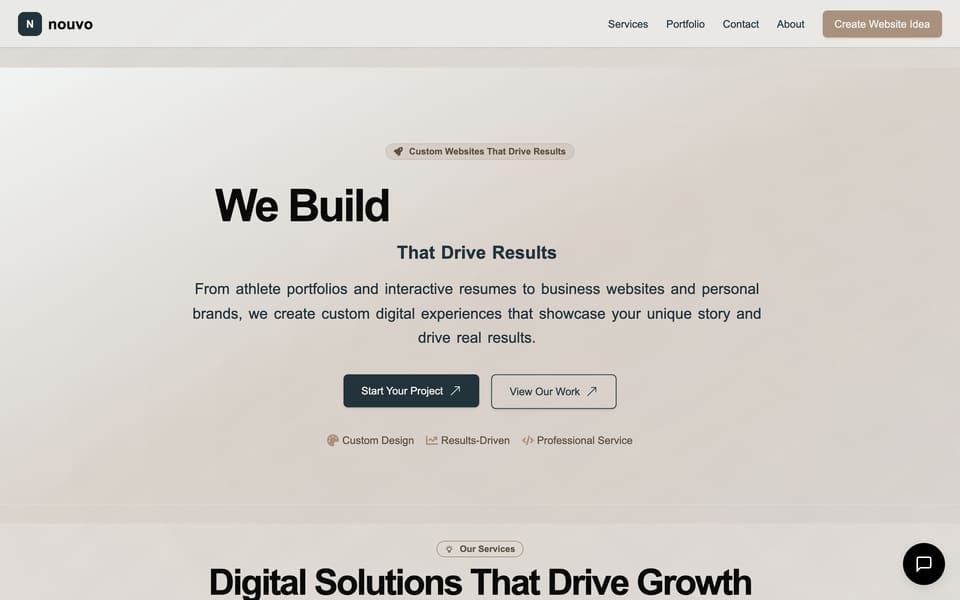
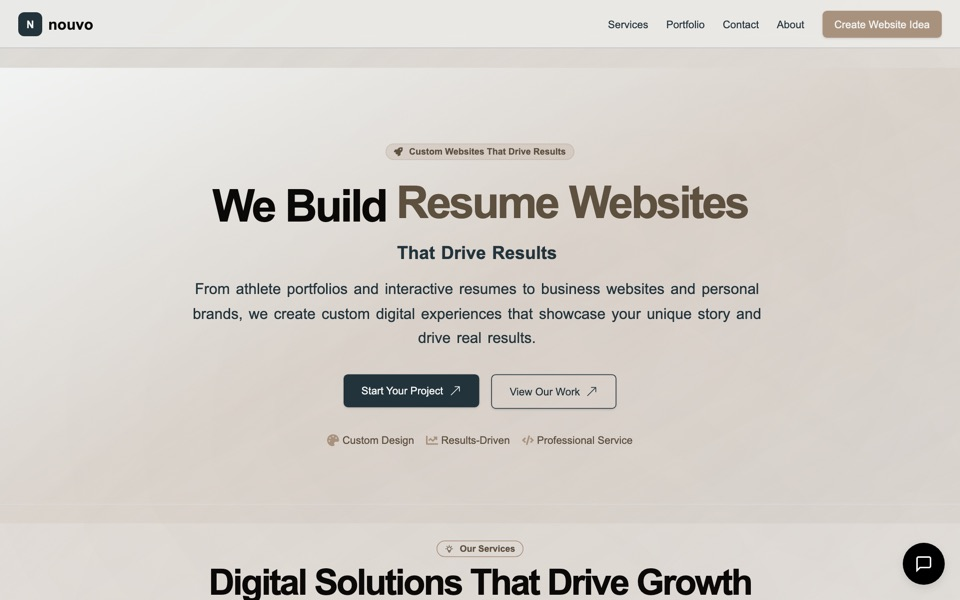
feat(/1): Launch Control replaces ATS in featured five (local-boot screenshot); clean nouvo recapture

diff --git a/lib/content.ts b/lib/content.ts
@@ -158,7 +158,9 @@ export const projects: readonly Project[] = [
     url: "https://idex.dev", github: "https://github.com/Manueldav2/idex", favicon: "/brand/proj-idex.svg" },
   { slug: "launch-control", name: "Launch Control", status: "open-source", year: "2026",
     blurb: "One idea in, a week of on-brand launch content out. A swarm of Claude agents plans it, makes it, grades its own work, and ships it. Built for Claude Build Day.",
-    github: "https://github.com/Manueldav2/launch-control", favicon: "/brand/proj-launch-control.svg" },
+    github: "https://github.com/Manueldav2/launch-control", favicon: "/brand/proj-launch-control.svg",
+    shot: "/shots/launch-control.jpg",
+    shotAlt: "Launch Control app: the launch composer with a crew of Claude agents, a strategist, channel writers, and a critic, planning a week of content" },
   { slug: "claude-classroom", name: "Claude Classroom", status: "open-source", year: "2026",
     blurb: "Makes many Claude Code sessions work as one team, with a shared board, file claims, negotiation, and a live dashboard.",
     github: "https://github.com/Manueldav2/claude-classroom", favicon: "/brand/proj-claude-classroom.svg" },

diff --git a/components/hero-field/HeroField.tsx b/components/hero-field/HeroField.tsx
@@ -74,7 +74,7 @@ const FEATURED_PROJECTS = [
   "nouvo-clients",
   "ultron",
   "gideon",
-  "ats-resume-optimizer",
+  "launch-control",
 ]
 
 const featuredProjects = FEATURED_PROJECTS.map((slug) =>
@@ -323,8 +323,8 @@ export function HeroField({ className }: { className?: string }) {
             </ul>
 
             <p className={styles.platesFoot}>
-              The other twenty-some, IDEX, Claude Classroom, Launch Control and
-              the rest, live on{" "}
+              The other twenty-some, IDEX, Claude Classroom, the ATS Resume
+              Optimizer and the rest, live on{" "}
               <a
                 className={styles.plateNoteLink}
                 href={profile.github}
